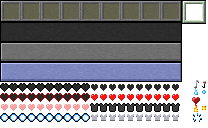
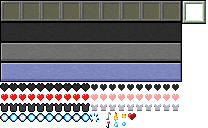
Adjusted health bar constants

Changed region(s): [[0.0, 0.7188, 0.8654, 1.0], [0.9231, 0.625, 1.0, 0.9688]]

diff --git a/src/game/gui/hotbar.c b/src/game/gui/hotbar.c
@@ -78,7 +78,7 @@ void hotbarRenderSlots(const Hotbar* hotbar,  RenderContext* ctx, Transforms* tr
 }
 
 #define FRAMES_PER_FLASH 2
-#define FLASH_FRAMES (FRAMES_PER_FLASH * 5)
+#define FLASH_FRAMES (FRAMES_PER_FLASH * 4)
 static u8 health_flash_animation = 0;
 
 void hotbarRenderAttributes(u8 health,
@@ -88,7 +88,7 @@ void hotbarRenderAttributes(u8 health,
                             bool in_water,
                             RenderContext* ctx,
                             Transforms* transforms) {
-    if (health_flash_animation) {
+    if (health_start_flash) {
         health_flash_animation = FLASH_FRAMES;
     } else if (health_flash_animation > 0) {
         health_flash_animation = clamp(
@@ -104,20 +104,22 @@ void hotbarRenderAttributes(u8 health,
     if (health > 0) {
         const u8 half_health = health % 2;
         const u8 full_health = health - half_health;
+        const u8 health_width = ((full_health >> 1) * HOTBAR_HEALTH_ICON_WIDTH)
+            + (half_health * HOTBAR_HEALTH_ICON_HALF_WIDTH);
         POLY_FT4* pol4 = (POLY_FT4*) allocatePrimitive(ctx, sizeof(POLY_FT4));
         setPolyFT4(pol4);
         setXYWH(
             pol4,
             HOTBAR_HEALTH_ORIGIN_POS_X,
             HOTBAR_HEALTH_ORIGIN_POS_Y,
-            ((full_health >> 1) * HOTBAR_HEALTH_ICON_WIDTH) + (half_health * (HOTBAR_HEALTH_ICON_WIDTH >> 1)),
+            health_width,
             HOTBAR_HEALTH_ICON_HEIGHT
         );
         setUVWH(
             pol4,
             HOTBAR_HEALTH_FILL_U,
             HOTBAR_HEALTH_FILL_V,
-            ((full_health >> 1) * HOTBAR_HEALTH_ICON_WIDTH) + (half_health * (HOTBAR_HEALTH_ICON_WIDTH >> 1)),
+            health_width,            
             HOTBAR_HEALTH_ICON_HEIGHT
         );
         setRGB0(pol4, 0xFF, 0xFF, 0xFF);
@@ -137,24 +139,20 @@ void hotbarRenderAttributes(u8 health,
     );
     u16 health_u;
     u16 health_v;
-    switch (health_flash_animation >> 1) {
-        case FLASH_FRAMES ... FLASH_FRAMES - 1:
+    switch (health_flash_animation) {
+        case FLASH_FRAMES - 1 ... FLASH_FRAMES:
             health_u = HOTBAR_HEALTH_WHITE_U;
             health_v = HOTBAR_HEALTH_WHITE_V;
             break;
-        case FLASH_FRAMES - 2 ... FLASH_FRAMES - 3:
-            health_u = HOTBAR_HEALTH_RED_U;
-            health_v = HOTBAR_HEALTH_RED_V;
+        case FLASH_FRAMES - 3 ... FLASH_FRAMES - 2:
+            health_u = HOTBAR_HEALTH_BLACK_U;
+            health_v = HOTBAR_HEALTH_BLACK_V;
             break;
-        case FLASH_FRAMES - 4 ... FLASH_FRAMES - 5:
+        case FLASH_FRAMES - 5 ... FLASH_FRAMES - 4:
             health_u = HOTBAR_HEALTH_WHITE_U;
             health_v = HOTBAR_HEALTH_WHITE_V;
             break;
-        case FLASH_FRAMES - 6 ... FLASH_FRAMES - 7:
-            health_u = HOTBAR_HEALTH_RED_U;
-            health_v = HOTBAR_HEALTH_RED_V;
-            break;
-        case FLASH_FRAMES - 8 ... FLASH_FRAMES - 9:
+        case FLASH_FRAMES - 7 ... FLASH_FRAMES - 6:
             health_u = HOTBAR_HEALTH_WHITE_U;
             health_v = HOTBAR_HEALTH_WHITE_V;
             break;
@@ -163,6 +161,7 @@ void hotbarRenderAttributes(u8 health,
             health_v = HOTBAR_HEALTH_BLACK_V;
             break;
     }
+    DEBUG_LOG("U %d, V %d\n", health_u, health_v);
     setUVWH(
         pol4,
         health_u,
@@ -181,7 +180,7 @@ void hotbarRenderAttributes(u8 health,
         pol4 = (POLY_FT4*) allocatePrimitive(ctx, sizeof(POLY_FT4));
         setPolyFT4(pol4);
         const u8 armour_icons_width = ((full_armour >> 1) * HOTBAR_ARMOUR_ICON_WIDTH)
-            + (half_armour * (HOTBAR_ARMOUR_ICON_WIDTH >> 1));
+            + (half_armour * HOTBAR_ARMOUR_ICON_HALF_WIDTH);
         const u8 armour_icons_width_offset = (HOTBAR_ARMOUR_ICON_COUNT * HOTBAR_ARMOUR_ICON_WIDTH) - armour_icons_width;
         setXYWH(
             pol4,

diff --git a/src/game/gui/hotbar.h b/src/game/gui/hotbar.h
@@ -40,6 +40,7 @@ slotGroupCheck(HOTBAR);
 
 #define HOTBAR_HEALTH_ICON_COUNT 10
 #define HOTBAR_HEALTH_ICON_WIDTH 9
+#define HOTBAR_HEALTH_ICON_HALF_WIDTH 5
 #define HOTBAR_HEALTH_ICON_HEIGHT 10
 #define HOTBAR_HEALTH_ORIGIN_POS_X (CENTRE_X - (HOTBAR_WIDTH >> 1))
 #define HOTBAR_HEALTH_ORIGIN_POS_Y (SCREEN_YRES - (HOTBAR_HEIGHT) - HOTBAR_HEALTH_ICON_HEIGHT - HOTBAR_ATTRIBUTE_Y_OFFSET)
@@ -47,29 +48,25 @@ slotGroupCheck(HOTBAR);
 #define HOTBAR_HEALTH_BLACK_U 0
 #define HOTBAR_HEALTH_BLACK_V 82
 
-#define HOTBAR_HEALTH_WHITE_U (HOTBAR_HEALTH_BLACK_U \
-    + (HOTBAR_HEALTH_ICON_COUNT * HOTBAR_HEALTH_ICON_WIDTH))
-#define HOTBAR_HEALTH_WHITE_V HOTBAR_HEALTH_BLACK_V
+#define HOTBAR_HEALTH_WHITE_U 90
+#define HOTBAR_HEALTH_WHITE_V 82
 
-#define HOTBAR_HEALTH_RED_U HOTBAR_HEALTH_BLACK_U
-#define HOTBAR_HEALTH_RED_V (HOTBAR_HEALTH_BLACK_V + HOTBAR_HEALTH_ICON_HEIGHT)
+#define HOTBAR_HEALTH_FILL_U 0
+#define HOTBAR_HEALTH_FILL_V 92
 
-#define HOTBAR_HEALTH_FILL_U (HOTBAR_HEALTH_BLACK_U \
-    + (HOTBAR_HEALTH_ICON_COUNT * HOTBAR_HEALTH_ICON_WIDTH))
-#define HOTBAR_HEALTH_FILL_V (HOTBAR_HEALTH_BLACK_V + HOTBAR_HEALTH_ICON_HEIGHT)
-
-#define HOTBAR_HEALTH_FILL_FLASH_U HOTBAR_HEALTH_BLACK_U
-#define HOTBAR_HEALTH_FILL_FLASH_V (HOTBAR_HEALTH_BLACK_V + (HOTBAR_HEALTH_ICON_HEIGHT << 1))
+#define HOTBAR_HEALTH_FILL_LIGHT_U 90
+#define HOTBAR_HEALTH_FILL_LIGHT_V 92
 
 #define HOTBAR_ARMOUR_ICON_COUNT 10
 #define HOTBAR_ARMOUR_ICON_WIDTH 9
+#define HOTBAR_ARMOUR_ICON_HALF_WIDTH 5
 #define HOTBAR_ARMOUR_ICON_HEIGHT 10
 #define HOTBAR_ARMOUR_ORIGIN_POS_X (CENTRE_X + (HOTBAR_WIDTH >> 1) - (HOTBAR_ICON_COUNT * HOTBAR_ARMOUR_ICON_WIDTH))
 #define HOTBAR_ARMOUR_ORIGIN_POS_Y (SCREEN_YRES - (HOTBAR_HEIGHT) - HOTBAR_ARMOUR_ICON_HEIGHT - HOTBAR_ATTRIBUTE_Y_OFFSET)
-#define HOTBAR_ARMOUR_U 90
+#define HOTBAR_ARMOUR_U 0
 #define HOTBAR_ARMOUR_V 102
-#define HOTBAR_ARMOUR_FILL_U HOTBAR_ARMOUR_U
-#define HOTBAR_ARMOUR_FILL_V (HOTBAR_ARMOUR_V + HOTBAR_ARMOUR_ICON_HEIGHT)
+#define HOTBAR_ARMOUR_FILL_U 90
+#define HOTBAR_ARMOUR_FILL_V 102
 
 #define HOTBAR_AIR_ICON_COUNT 10
 #define HOTBAR_AIR_ICON_WIDTH 9
@@ -78,8 +75,8 @@ slotGroupCheck(HOTBAR);
 #define HOTBAR_AIR_ORIGIN_POS_Y (HOTBAR_HEALTH_ORIGIN_POS_Y - HOTBAR_AIR_ICON_HEIGHT)
 #define HOTBAR_AIR_U 0
 #define HOTBAR_AIR_V 112
-#define HOTBAR_AIR_POP_U 192
-#define HOTBAR_AIR_POP_V HOTBAR_AIR_V
+#define HOTBAR_AIR_POP_U 90
+#define HOTBAR_AIR_POP_V 112
 
 #define hotbarGetSelectSlot(hotbar) ((hotbar)->slots[(hotbar)->selected_slot])
 

diff --git a/src/entity/player.c b/src/entity/player.c
@@ -208,6 +208,7 @@ remove_world_block:;
 
 INLINE static bool playerInputHandlerAttack(const PlayerInputHandlerContext* ctx) {
     Player* player= ctx->player;
+    playerDamage(player, 1);
     // NOTE: This will probably hit framerate a decent bit
     //       while we are holding down the BINDING_ATTACK
     //       button. It's probably not going to be a problem
@@ -506,5 +507,6 @@ void Player_damage(VSelf, const i16 amount) {
     iEntityDamage(self, amount);
     if (amount > 0) {
         player_damaged = true;
+        DEBUG_LOG("[PLAYER] Set damaged flag\n");
     }
 }

diff --git a/src/game/world/world.c b/src/game/world/world.c
@@ -811,7 +811,7 @@ void worldUpdate(World* world,
                 }
             }
         }
-        DEBUG_LOG("[WORLD] End world update (no breaking state)\n");
+        /*DEBUG_LOG("[WORLD] End world update (no breaking state)\n");*/
         return;
     }
     u8 coords_check = 0b000; // XYZ
